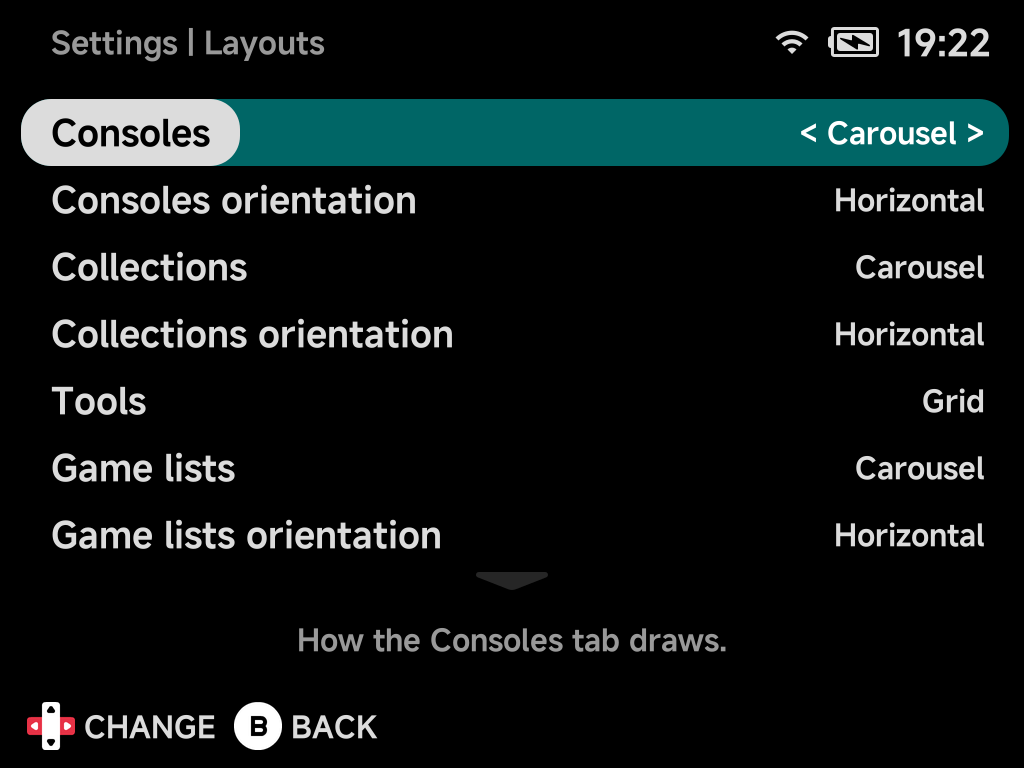
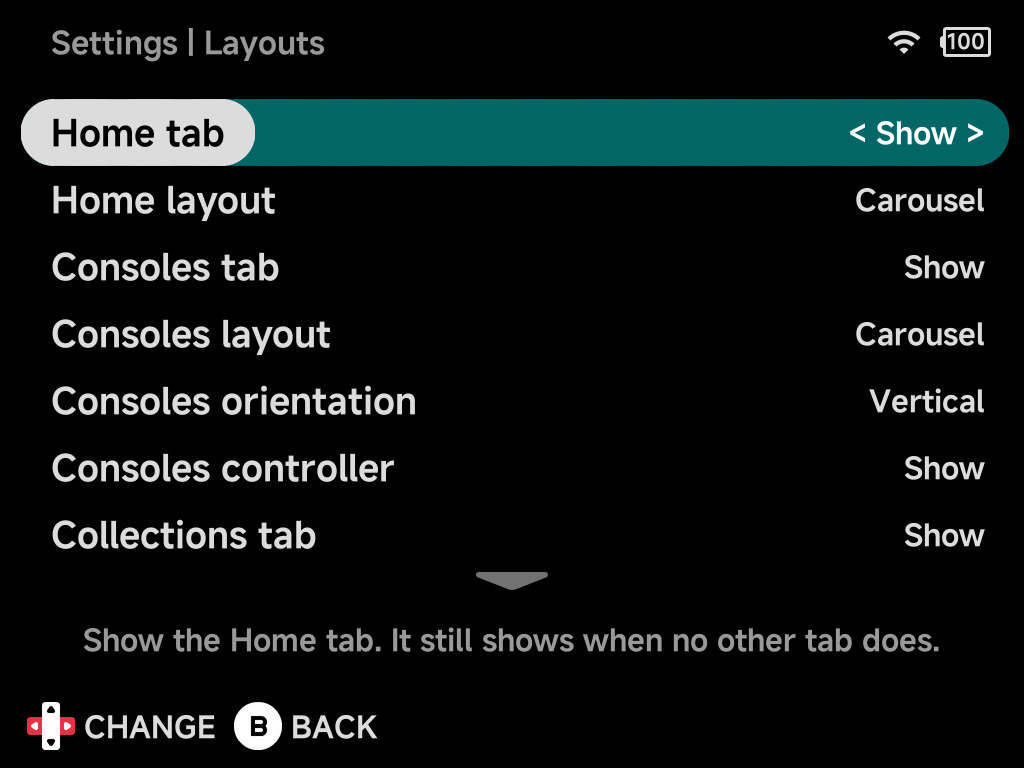
docs(handheld): add the Home List and Carousel layouts, group the Layouts page by target and document Extra info

diff --git a/docs/handheld/guide/main-menu.md b/docs/handheld/guide/main-menu.md
@@ -7,8 +7,9 @@ tab that shows when Home is turned off in
 
 ![Home tab](../../assets/screenshots/main-menu.png)
 
-Each tab except Home can be drawn as a list, a grid or a carousel, and game
-lists have a fourth style, Backdrop. [Menu Layouts](layouts.md) shows them all.
+Each tab can be drawn in its own style: Home as a list, a grid or a carousel, the
+other tabs as a list, a grid or a carousel, and game lists have a fourth style,
+Backdrop. [Menu Layouts](layouts.md) shows them all.
 
 ## Tabs
 
@@ -56,17 +57,52 @@ focus.
 ## Home
 
 Home is the starting point: your most recent game, this month's play time,
-and everything you pinned.
+and everything you pinned. It comes in three layouts, **List**, **Grid** (the
+default) and **Carousel**. Pick one in
+[Settings → Layouts → Home layout](../settings/layouts.md#home-layout).
+With [Extra info](../settings/layouts.md#extra-info) hidden, every layout
+leaves out the stats and the play time and achievements under each game.
 
-![Home with pinned games](../../assets/screenshots/home-pins.png)
+### List
+
+Everything on Home in one list, in the style of the other tabs' List layout.
+
+![Home in the List layout](../../assets/screenshots/home-list.png)
+
+- **Stats** sit on two lines under the tabs, lined up with the list.
+- **The list** starts with your most recent game, marked with a **Continue**
+  tag and selected when Home opens, then your pinned games in the order you
+  pinned them, then your pinned tools. When the list is longer than the
+  screen, arrows in the bottom row show there is more above or below.
+- **Behind the list** you see the selected game's picture (for the Continue
+  game, where you left off). A selected tool shows its icon on the right.
+- **Game info** (when you last played, for how long, your achievement
+  progress) shows only with [Button hints](../settings/layouts.md#button-hints)
+  hidden, in the hint bar's place, and only while
+  [Extra info](../settings/layouts.md#extra-info) is shown.
+- **On a fresh install** the **Pick a game** card fills the screen, as in
+  Grid and Carousel.
+
+| Button | What it does |
+| --- | --- |
+| `Up` / `Down` | Move through the list. It wraps around at either end |
+| `Left` / `Right` | Switch tab |
+| `A` **Play** / **Resume** / **Open** | Start the game (resuming its auto-save when it has one), or open the tool |
+| `MENU` **Options** | The [context menu](context-menu.md) for the selected game or tool, plus **Refresh Roms** |
+| `SELECT` **Recent** | Open the [Game Switcher](game-switcher.md) |
+| `START` | Open [Search](#search) |
+
+### Grid
+
+![Home in the Grid layout](../../assets/screenshots/home-pins.png)
 
 - **Stats line.** The top lines show **This month**'s total play time, your
   RetroAchievements unlocked this month (left out when you are signed out),
   and the month's **Most played** game. A month without play shows
   **No play yet**.
-- **Continue card.** Your most recent game, showing where you left off (the
-  save-state picture, else the game's artwork), its name and when you last
-  played it. Press `A` to jump back in. On a fresh install it is replaced by
+- **Continue card.** Your most recent game, marked with a **Continue** badge
+  in its corner, showing where you left off (the save-state picture, else the
+  game's artwork), its name and when you last played it. Press `A` to jump back in. On a fresh install it is replaced by
   a **Pick a game** card that opens the Consoles tab.
 - **Pinned tools** sit beside the Continue card as square icon tiles. Every
   pinned tool is shown.
@@ -86,6 +122,33 @@ and everything you pinned.
 | Button | What it does |
 | --- | --- |
 | D-pad | Move between the cards |
+| `A` **Play** / **Resume** / **Open** | Start the game (resuming its auto-save when it has one), or open the tool |
+| `MENU` **Options** | The [context menu](context-menu.md) for the selected game or tool, plus **Refresh Roms** |
+| `SELECT` **Recent** | Open the [Game Switcher](game-switcher.md) |
+| `START` | Open [Search](#search) |
+
+### Carousel
+
+The same games and tools in one row, centred on the screen.
+
+![Home in the Carousel layout](../../assets/screenshots/home-carousel.png)
+
+- **Stats** sit on two centred lines under the tabs: **This month** above,
+  **Most played** below.
+- **The carousel** starts on the **Continue** card, selected when Home opens,
+  and your pinned games follow it in the order you pinned them. On a fresh
+  install the **Pick a game** card fills the screen instead, as in Grid.
+- **Game info** sits inside the selected card: the name, when you last played
+  it and for how long, and your achievement progress. The cards beside it show
+  their picture only.
+- **Pinned tools** move to a row of small squares under the carousel. Press
+  `Down` to reach them and `Up` to return to the carousel.
+
+| Button | What it does |
+| --- | --- |
+| `Left` / `Right` | Move along the carousel or the tools row. Past either end, switch tab |
+| `Up` | From the tools row, back to the carousel. From the carousel, the tab row |
+| `Down` | From the carousel, the tools row |
 | `A` **Play** / **Resume** / **Open** | Start the game (resuming its auto-save when it has one), or open the tool |
 | `MENU` **Options** | The [context menu](context-menu.md) for the selected game or tool, plus **Refresh Roms** |
 | `SELECT` **Recent** | Open the [Game Switcher](game-switcher.md) |
@@ -118,7 +181,7 @@ carousel, and Tools is a grid.
 ![Consoles tab](../../assets/screenshots/consoles-carousel.png)
 
 - Consoles show their logo and how many games they hold. Behind the
-  selected console you see its controller, unless you turn **Controller** off
+  selected console you see its controller, unless you turn **Consoles controller** off
   in Layouts. A system without a logo shows its name under a cartridge
   emblem.
 - Collections show their name and game count.

diff --git a/docs/handheld/settings/layouts.md b/docs/handheld/settings/layouts.md
@@ -7,44 +7,35 @@ soon as you leave Settings, with no restart. See
 
 ![Layouts settings](../../assets/screenshots/set-layouts.png)
 
-## Consoles / Collections / Tools
-
-How each tab draws: `List`, `Grid` or `Carousel`.
-
-| Tab | Default |
-| --- | --- |
-| Consoles | `Carousel` |
-| Collections | `Carousel` |
-| Tools | `Grid` |
-
-## Game lists
-
-How a console's or collection's games draw: `List`, `Grid`, `Carousel` or
-`Backdrop`. Default `Carousel`.
-
-## Orientation
-
-Whether a carousel runs across (`Horizontal`, the default) or down
-(`Vertical`) the screen. Each tab and the game lists have their own
-orientation row, directly under their style. The row shows only while that
-style is `Carousel`, or `Backdrop` for game lists.
-
-## Vertical alignment
-
-Which side a vertical game list's stack sits on: `Left` (default) or `Right`.
-The game's details take the other side. Shows only while game lists are drawn
-vertically.
+The rows are grouped by what they change: Home first, then each tab, then the
+game lists, then the options that apply to the whole menu. A tab's layout rows
+show only while that tab is shown.
 
 ## Home tab
-
-![Layouts settings, the tab, page title and button hint rows](../../assets/screenshots/set-layouts-2.png)
 
 `Show` (default) or `Hide` the [Home](../guide/main-menu.md#home) tab. Home
 still shows when every other tab is hidden.
 
-## Consoles tab / Collections tab / Tools tab
+## Home layout
 
-`Show` (default) or `Hide` each tab. Hide all of them for a Home-only menu, as
+How Home draws:
+
+- `List`: one list with the Continue game first, then your pinned games, then
+  your pinned tools.
+- `Grid` (default): the Continue card beside your pinned tools, your pinned
+  games in rows below.
+- `Carousel`: one row that starts on the Continue card, your pinned games
+  after it, and your pinned tools in a row of small squares underneath.
+
+See [Home](../guide/main-menu.md#home) for both.
+
+## Consoles, Collections and Tools
+
+Each tab has the same rows, in this order.
+
+### Tab
+
+`Show` (default) or `Hide` the tab. Hide all of them for a Home-only menu, as
 in the [Five-Game Menu](../guide/five-game-menu.md). With a single tab left,
 the tab row is replaced by an **NX Redux** title.
 
@@ -53,13 +44,60 @@ the tab row is replaced by an **NX Redux** title.
     **Collections**, **Tools**), so Settings is never locked away. The list
     opens over the current tab in the hidden tab's own layout, and `B` returns.
 
-## Controller
+### Layout
 
-`Show` (default) or `Hide` each console's controller behind it on the
-Consoles tab.
+How the tab draws: `List`, `Grid` or `Carousel`.
+
+| Tab | Default |
+| --- | --- |
+| Consoles | `Carousel` |
+| Collections | `Carousel` |
+| Tools | `Grid` |
+
+### Orientation
+
+Whether the tab's carousel runs across (`Horizontal`, the default) or down
+(`Vertical`) the screen. Shows only while the tab's layout is `Carousel`.
+
+### Consoles controller
+
+Consoles only. `Show` (default) or `Hide` each console's controller behind it
+on the Consoles tab.
 
 Hide it to show your own picture behind each console in the List style
 instead: see [Your own console backgrounds](../guide/layouts.md#your-own-console-backgrounds).
+
+## Game lists
+
+### Game lists layout
+
+How a console's or collection's games draw: `List`, `Grid`, `Carousel` or
+`Backdrop`. Default `Carousel`.
+
+### Game lists orientation
+
+Whether the carousel or backdrop runs across (`Horizontal`, the default) or
+down (`Vertical`) the screen. Shows only while game lists are `Carousel` or
+`Backdrop`.
+
+### Game lists alignment
+
+Which side a vertical game list's stack sits on: `Left` (default) or `Right`.
+The game's details take the other side. Shows only while game lists are drawn
+vertically.
+
+## Extra info
+
+![Layouts settings, the game list, Extra info, page title and button hint rows](../../assets/screenshots/set-layouts-2.png)
+
+`Show` (default) or `Hide` the extra game details in the menus:
+
+- Home's monthly stats (**This month**, **Most played**);
+- the play time, last played, achievement progress and next achievement
+  under a game's name, on Home and in every game list layout.
+
+Names always show. The [Game Switcher](../guide/game-switcher.md) keeps its
+own details either way.
 
 ## Page title
 
@@ -74,7 +112,8 @@ volume and brightness changes included. Hidden:
 
 - the rows keep their place, so nothing jumps;
 - a game list in the List style shows the selected game's play time,
-  achievements and next achievement in the bar's row instead;
+  achievements and next achievement in the bar's row instead (unless
+  [Extra info](#extra-info) is hidden);
 - carousels run down into the freed row.
 
 ## Reset to defaults

diff --git a/docs/handheld/guide/layouts.md b/docs/handheld/guide/layouts.md
@@ -5,6 +5,10 @@ drawn in their own style. Pick them in
 [Settings → Layouts](../settings/layouts.md). The menu picks up the change as
 soon as you leave Settings, with no restart.
 
+The pictures on this page are taken with
+[Page title](../settings/layouts.md#page-title) and
+[Button hints](../settings/layouts.md#button-hints) hidden.
+
 | Style | Tabs | Game lists | In short |
 | --- | :---: | :---: | --- |
 | [**List**](#list) | ✓ | ✓ | Text rows over the art, the most entries per screen |
@@ -14,6 +18,9 @@ soon as you leave Settings, with no restart.
 
 Out of the box, Consoles, Collections and game lists use **Carousel**, and
 Tools uses **Grid**.
+
+Home has its own three layouts, **List**, **Grid** and **Carousel**: see
+[Home](main-menu.md#home).
 
 ## List
 
@@ -34,11 +41,8 @@ background.
   list shows the selected game's last-played time, achievements and next
   achievement in the bottom row, where the hints were.
 - With [Page title](../settings/layouts.md#page-title) hidden, the up arrow
-  moves above the first row, so the list has one arrow at each end.
-
-*Game list with Page title and Button hints hidden*
-
-![Game list in List style with the page title and button hints hidden](../../assets/landing/handheld/game-list-list.webp)
+  moves above the first row, so the list has one arrow at each end. Home's
+  List keeps both arrows in the bottom row.
 
 - `Up` on the first row wraps to the last, and `Down` on the last wraps to the
   first (hold the button to stop at the end instead).
@@ -54,7 +58,7 @@ console instead of its controller, much like the list's look before 2.0.
 2. Put it in that console's `.media` folder:
    `Roms/<console> (<tag>)/.media/bg.png`, for example
    `Roms/Game Boy (GB)/.media/bg.png`.
-3. In [Settings → Layouts](../settings/layouts.md), set **Controller** to
+3. In [Settings → Layouts](../settings/layouts.md), set **Consoles controller** to
    **Hide**.
 
 The selected console's `bg.png` then fills the screen behind the list. A
@@ -68,7 +72,7 @@ hidden*
 ??? info "More detail"
     - Size the image to the screen: 1024×768 on the Brick, 1280×720 on the
       Brick Pro and Smart Pro S.
-    - With **Controller** on, the controller is shown and `bg.png` is
+    - With **Consoles controller** on, the controller is shown and `bg.png` is
       ignored.
     - The Collections tab in List takes a background too, with no setting to
       change: `Collections/.media/<collection name>.png` for one collection,
@@ -148,7 +152,7 @@ list).
 ![Game list in vertical Backdrop](../../assets/screenshots/game-list-backdrop-v.png)
 
 In a vertical game list the stack sits on the left and the details on the
-right. Set **Vertical alignment** to **Right** to swap the sides.
+right. Set **Game lists alignment** to **Right** to swap the sides.
 
 With the page title or the button hints hidden, carousels and Backdrop are no
 longer cut off at the top and bottom rows: the neighbouring items run on into
@@ -156,7 +160,7 @@ the freed space to the screen's edge.
 
 ??? info "More detail"
     - **Controller art.** The Consoles tab shows each console's controller
-      behind it in the List and Carousel styles. Turn **Controller** off in
+      behind it in the List and Carousel styles. Turn **Consoles controller** off in
       Layouts for plain logos.
     - **Logos.** Systems without a logo of their own show their name under a
       cartridge emblem. Tools without an icon get a generic one.

diff --git a/docs/handheld/guide/simple-mode.md b/docs/handheld/guide/simple-mode.md
@@ -8,7 +8,7 @@ Simple Mode is a simplified menu for children or casual users, enabled in
 When Simple Mode is on:
 
 - The **Tools** tab lists only **Settings**, whatever the
-  [Tools tab](../settings/layouts.md#consoles-tab-collections-tab-tools-tab)
+  [Tools tab](../settings/layouts.md#tab)
   setting says.
 - **Settings** is protected by a 4-digit PIN that you set when enabling
   Simple Mode. Only you can turn it back off.
